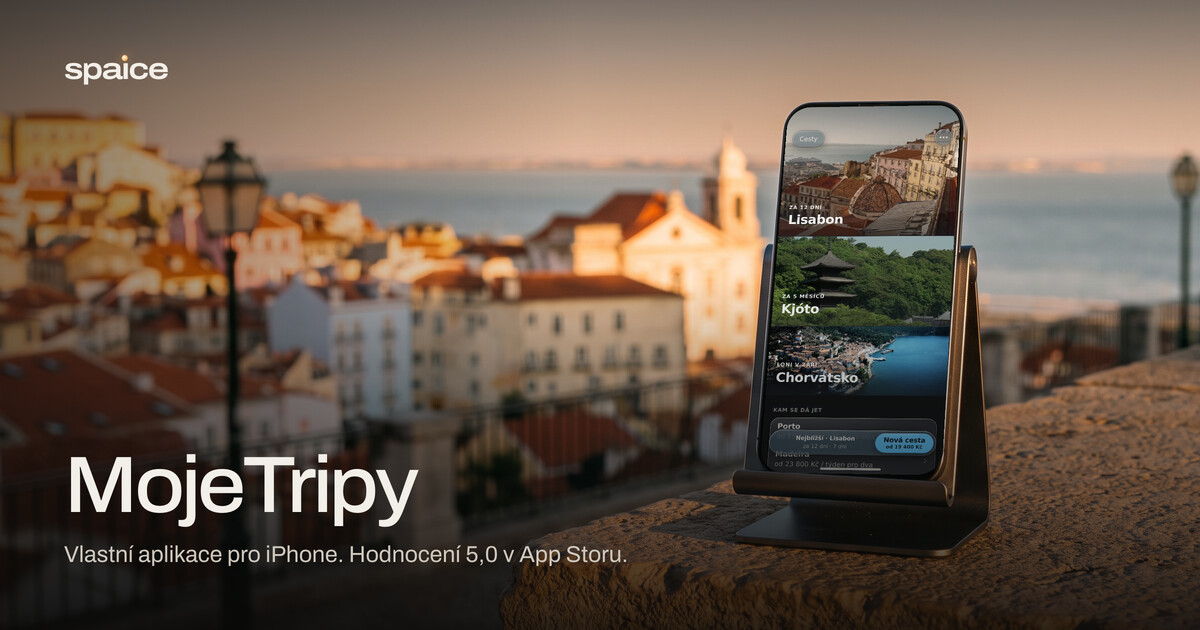
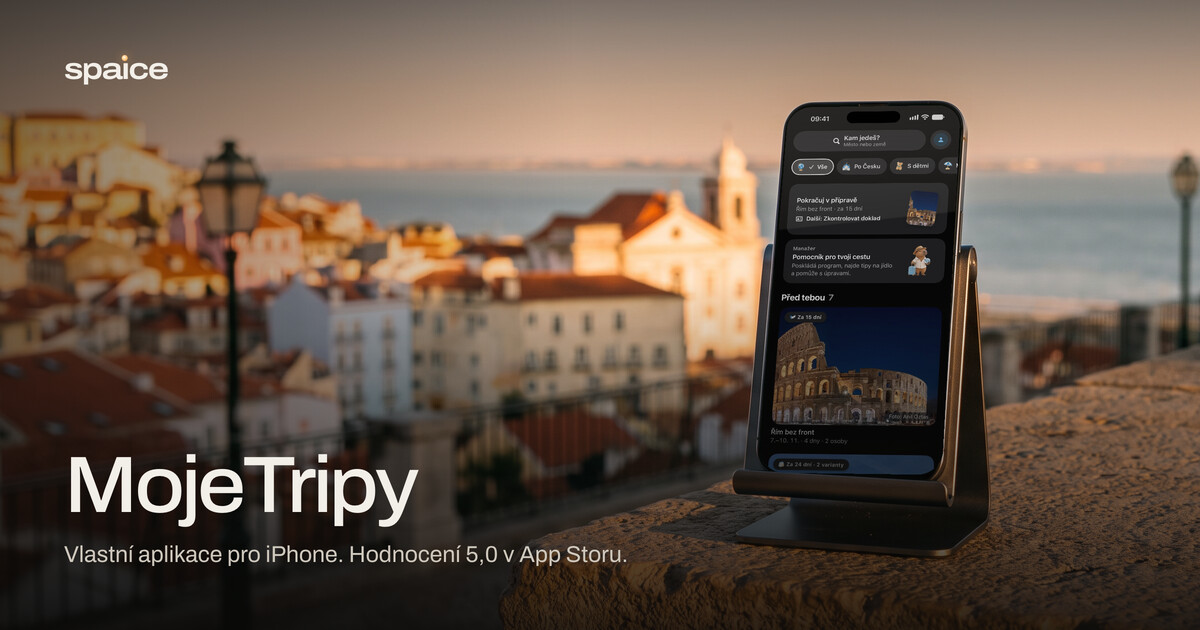
MojeTripy: skutečné obrazovky z iOS v tmavém režimu
Pět obrazovek ze simulátoru (police, přehled cesty, den, mapa, peníze)
s ukázkovou cestou do Říma a stavovým řádkem 9:41. Nahrazují starší
snímky v náhradním písmu bez stavového řádku. Přegenerované náhledy
odkazů, kde je telefon MojeTripy.

Changed region(s): [[0.6167, 0.1508, 0.8017, 0.754]]

diff --git a/prace/mojetripy/index.html b/prace/mojetripy/index.html
@@ -137,6 +137,7 @@
               <img class="stage__bg" src="../../assets/img/scene-mt-2048.webp" srcset="../../assets/img/scene-mt-1200.webp 1200w, ../../assets/img/scene-mt-2048.webp 2048w, ../../assets/img/scene-mt-2752.webp 2752w" sizes="(max-width: 900px) 700px, 100vw" width="2752" height="1536" alt="" fetchpriority="high" decoding="async">
               <div class="screen screen--phone" data-quad="1792,420 2137,415 2099,1155 1734,1150" data-src-w="804" data-src-h="1748">
                   <img class="is-active" src="../../assets/img/screen-mt-main.webp" alt="" width="804" height="1748" decoding="async">
+                  <img src="../../assets/img/screen-mt-trip.webp" alt="" width="804" height="1748" loading="lazy" decoding="async">
                   <img src="../../assets/img/screen-mt-den.webp" alt="" width="804" height="1748" loading="lazy" decoding="async">
                   <img src="../../assets/img/screen-mt-mapa.webp" alt="" width="804" height="1748" loading="lazy" decoding="async">
                   <img src="../../assets/img/screen-mt-penize.webp" alt="" width="804" height="1748" loading="lazy" decoding="async">

diff --git a/index.html b/index.html
@@ -196,6 +196,7 @@
                 <img class="stage__bg" src="assets/img/scene-mt-2048.webp" srcset="assets/img/scene-mt-1200.webp 1200w, assets/img/scene-mt-2048.webp 2048w, assets/img/scene-mt-2752.webp 2752w" sizes="(max-width: 900px) 700px, 100vw" width="2752" height="1536" alt="" loading="lazy" decoding="async">
                 <div class="screen screen--phone" data-quad="1792,420 2137,415 2099,1155 1734,1150" data-src-w="804" data-src-h="1748">
                   <img class="is-active" src="assets/img/screen-mt-main.webp" alt="" width="804" height="1748" loading="lazy" decoding="async">
+                  <img src="assets/img/screen-mt-trip.webp" alt="" width="804" height="1748" loading="lazy" decoding="async">
                   <img src="assets/img/screen-mt-den.webp" alt="" width="804" height="1748" loading="lazy" decoding="async">
                   <img src="assets/img/screen-mt-mapa.webp" alt="" width="804" height="1748" loading="lazy" decoding="async">
                   <img src="assets/img/screen-mt-penize.webp" alt="" width="804" height="1748" loading="lazy" decoding="async">

diff --git a/tools/projekty.py b/tools/projekty.py
@@ -30,7 +30,7 @@ PROJECTS = [
         'alt': 'Telefon s aplikací MojeTripy na zídce nad Lisabonem. Nápis: MojeTripy, vlastní aplikace pro iPhone, hodnocení 5,0 v App Storu.',
         'focus': '.7', 'focus_y': '.51', 'interval': '5200', 'scene': 'scene-mt',
         'screen': ('phone', '1792,420 2137,415 2099,1155 1734,1150', 804, 1748,
-                   imgs(['screen-mt-main.webp', 'screen-mt-den.webp', 'screen-mt-mapa.webp', 'screen-mt-penize.webp'], 804, 1748)),
+                   imgs(['screen-mt-main.webp', 'screen-mt-trip.webp', 'screen-mt-den.webp', 'screen-mt-mapa.webp', 'screen-mt-penize.webp'], 804, 1748)),
         'extra': 'reel',
     },
     {
